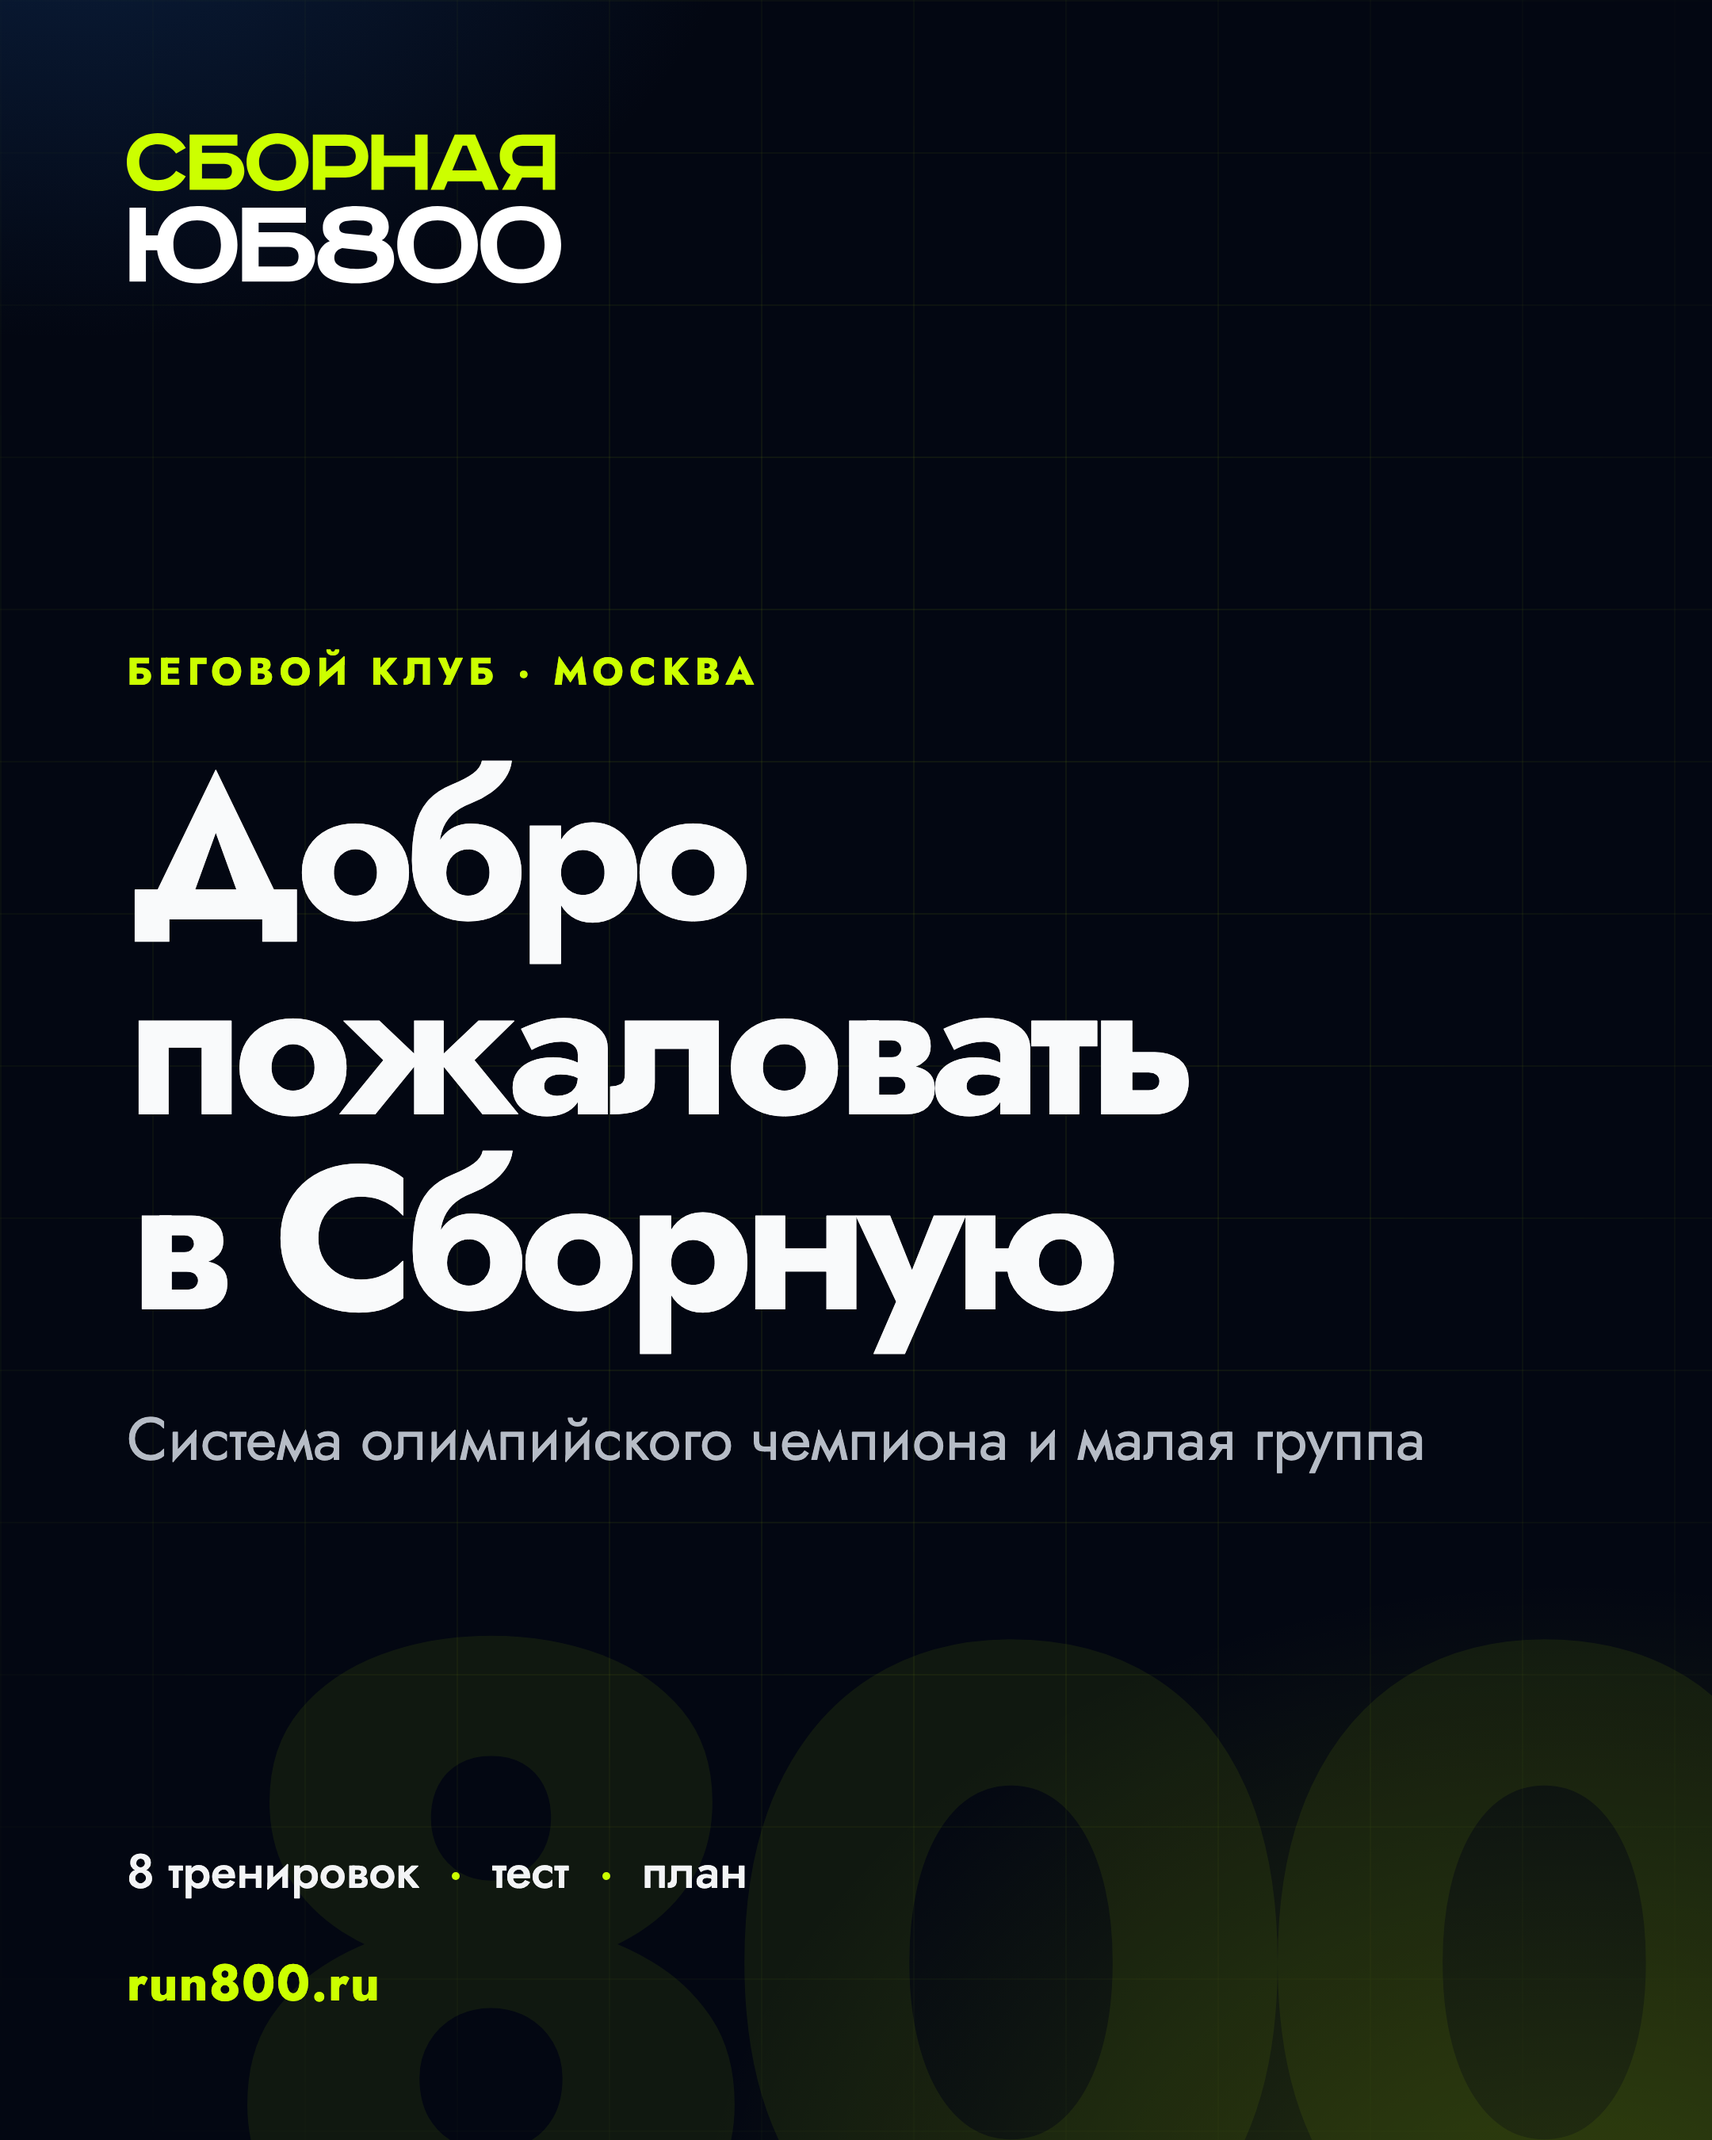
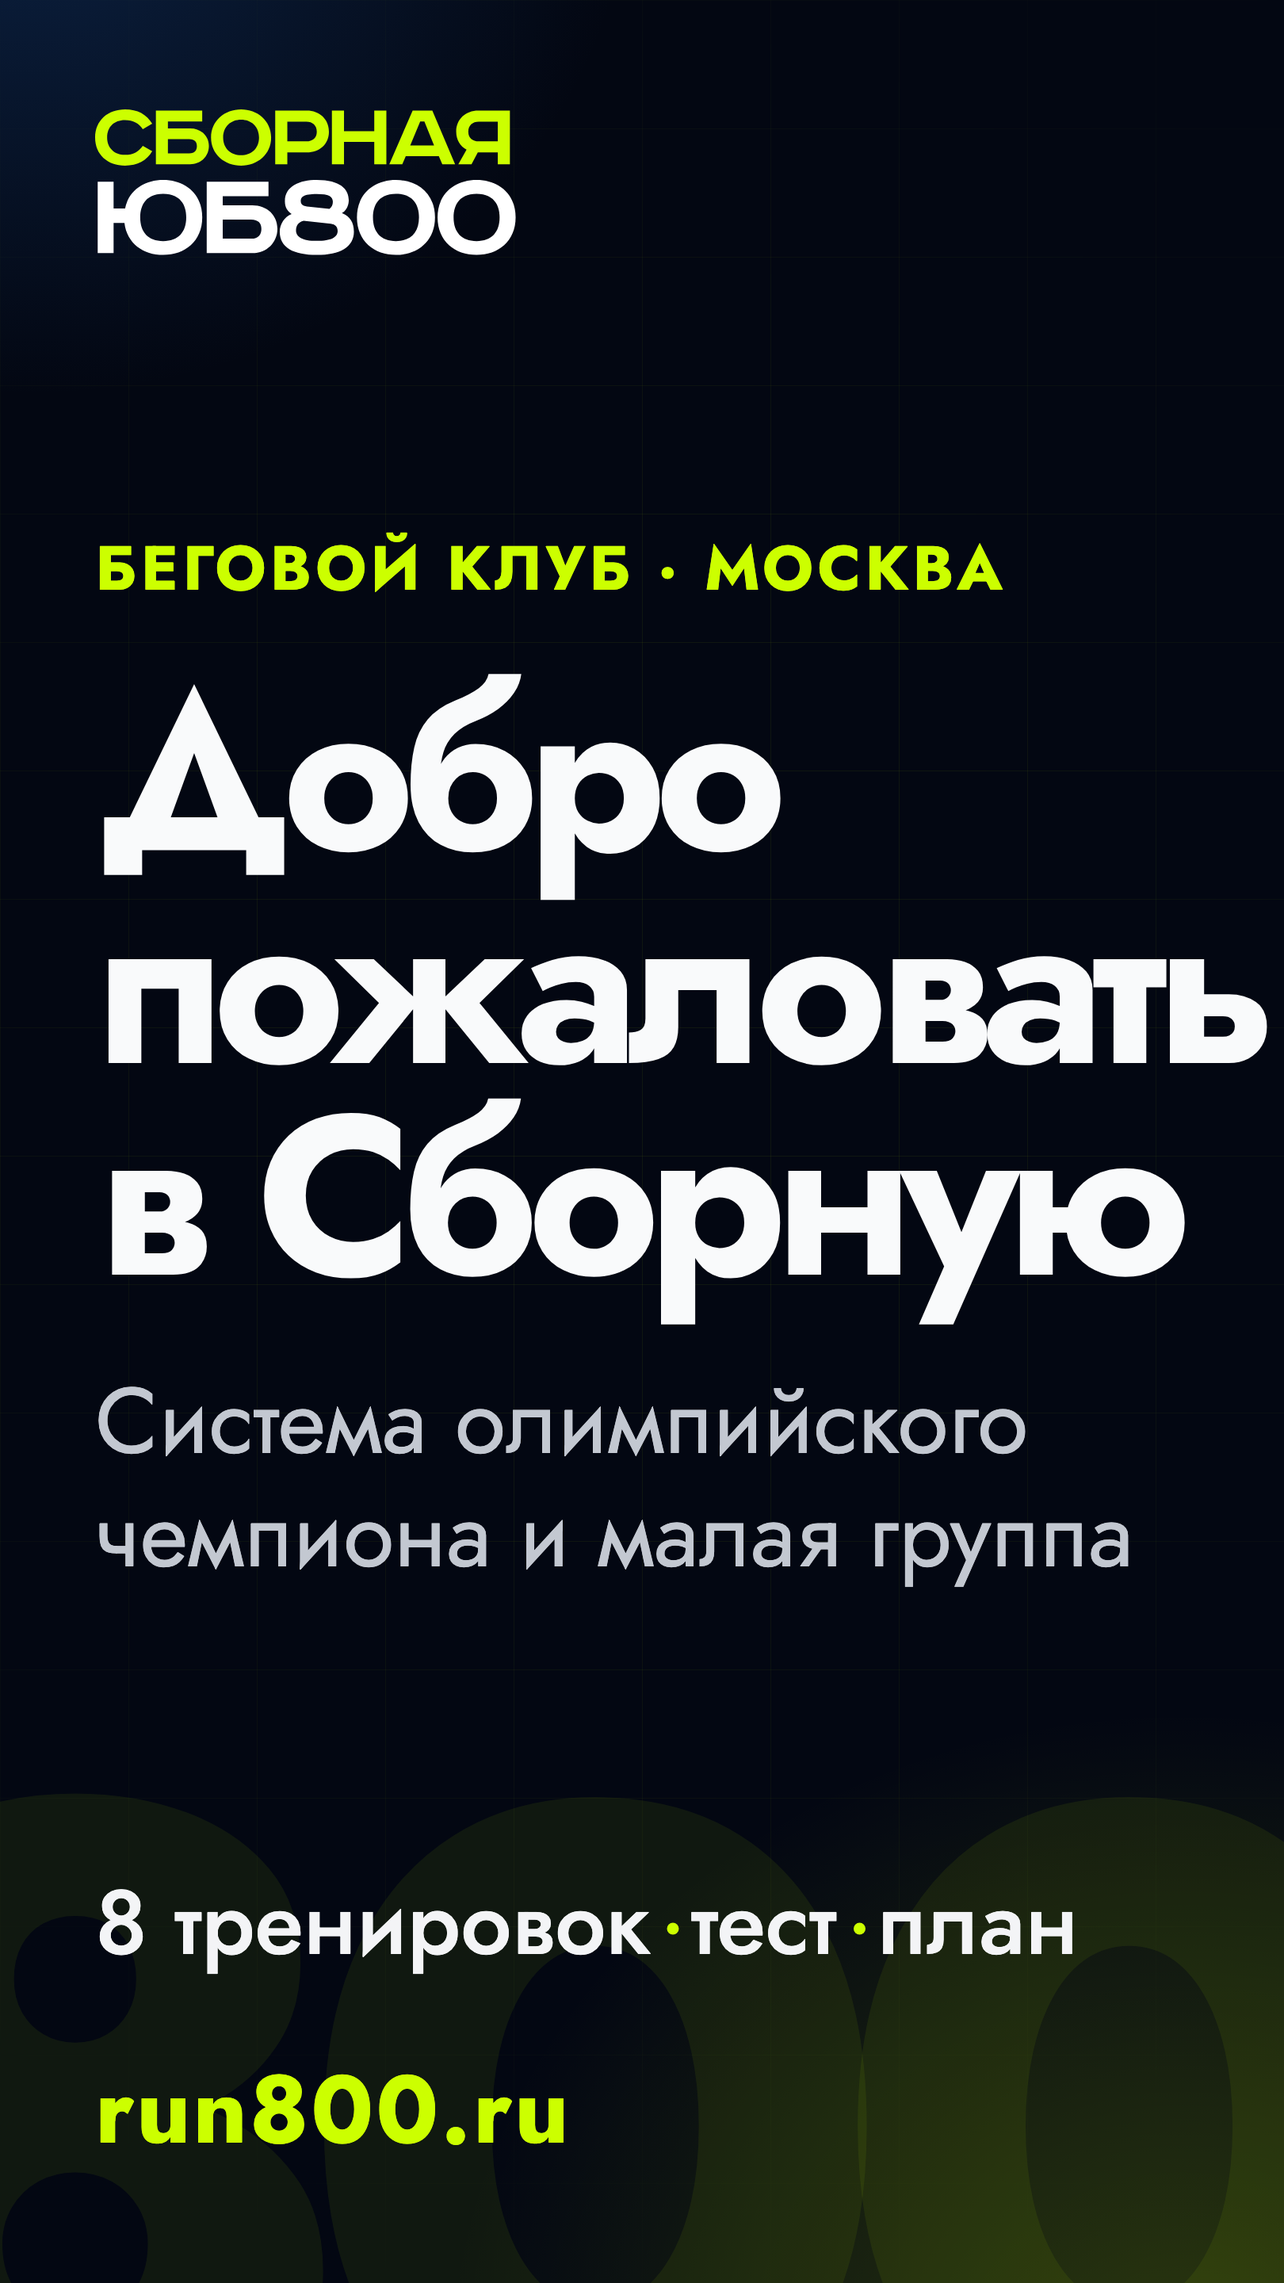
Enlarge welcome text and add post-signup buttons

diff --git a/bot/index.js b/bot/index.js
@@ -80,7 +80,11 @@ function chatKeyboard() {
 
 function successKeyboard() {
   return {
-    inline_keyboard: [[{ text: "Чат участников Сборной", url: chatUrl }]]
+    inline_keyboard: [
+      [{ text: "Ближайшая открытая тренировка", callback_data: "menu:event" }],
+      [{ text: "Чат участников Сборной", url: chatUrl }],
+      [{ text: "Канал о беге", url: channelUrl }]
+    ]
   };
 }
 

diff --git a/docs/journal/2026-10-29-bot-welcome-card.md b/docs/journal/2026-10-29-bot-welcome-card.md
@@ -65,3 +65,9 @@
 - Меню приведено к четырём кнопкам ленты: `/join`, `/event`, `/chat`, `/channel`; `/start` и `/help` работают, но скрыты.
 - Найдена причина «показать chat_id»: для чата `264751704` был задан отдельный scope команд. Он удалён, теперь действует общий список.
 - Бэкап: `/root/backups/yb800-bot-20261029-184645.tgz`.
+
+## Крупные тексты и кнопки после заявки
+
+- Карточка: 1080×1920, заголовок 190 px (было 128), остальные тексты 52–80 px.
+- После заявки три кнопки: «Ближайшая открытая тренировка», «Чат участников Сборной», «Канал о беге».
+- Бэкап: `/root/backups/yb800-bot-20261029-184940.tgz`.
